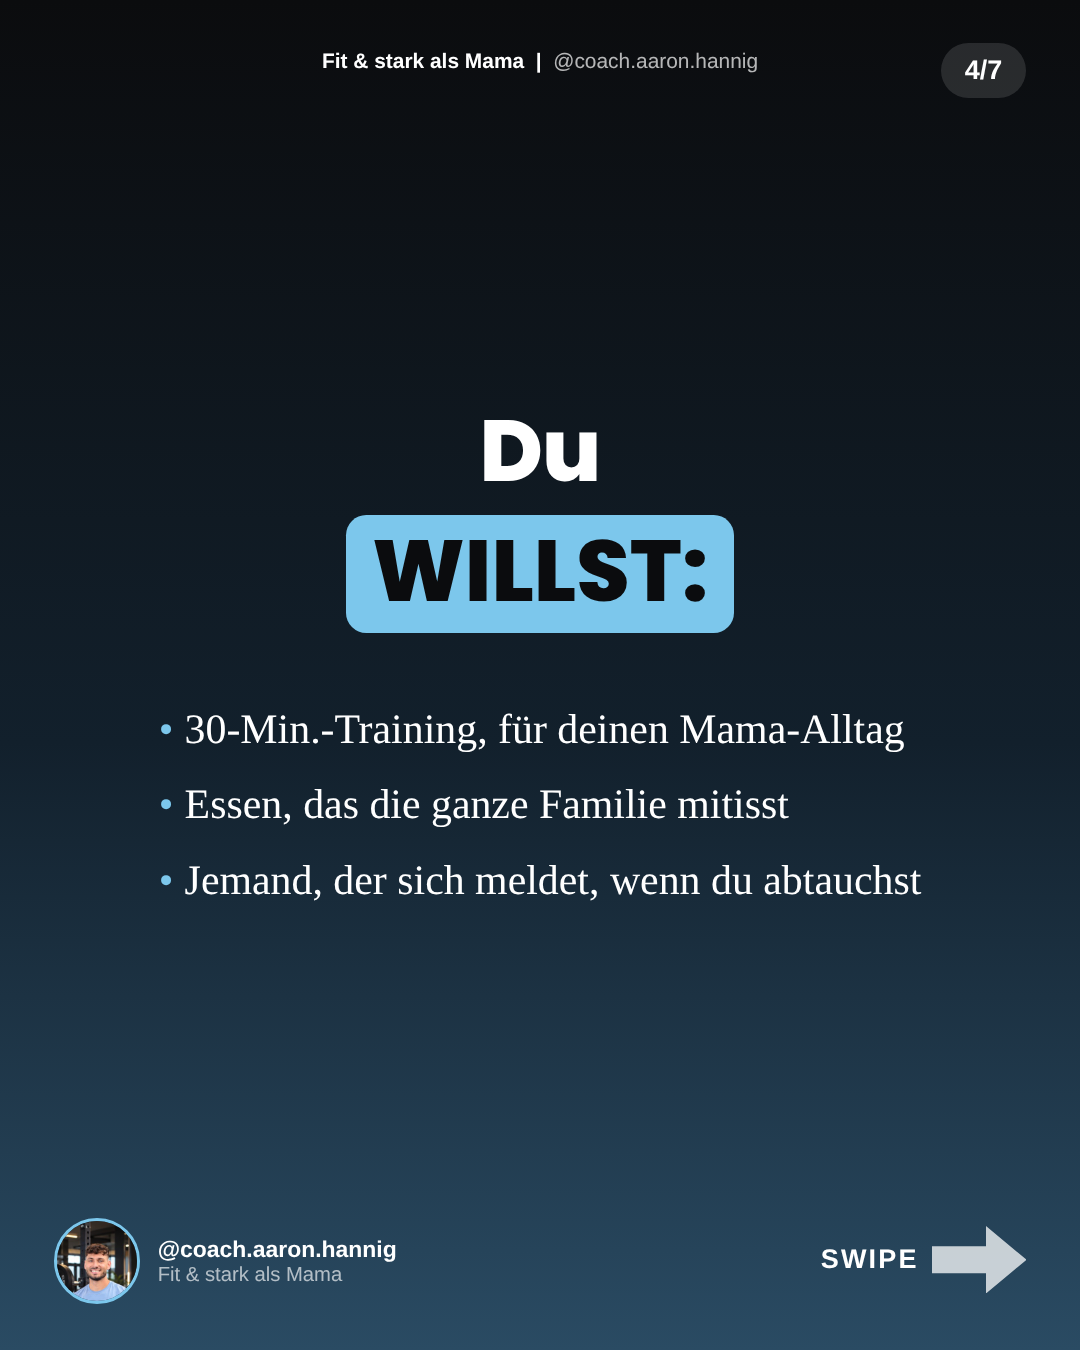
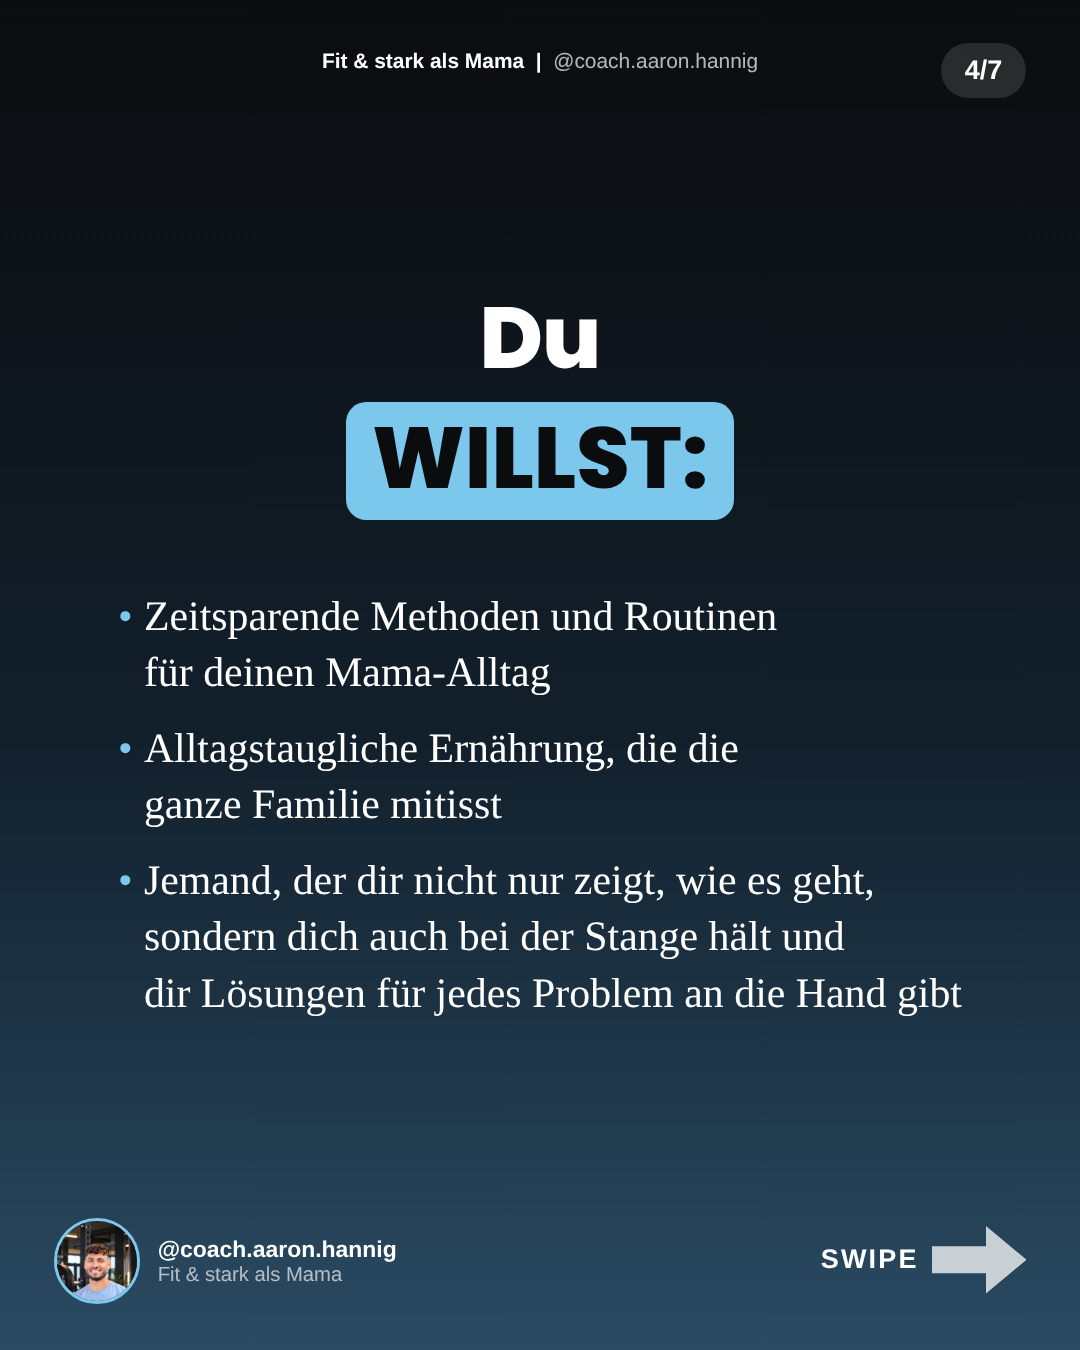
Mamas-Post Slide 4: Routinen, Familienessen, Begleitung statt 30-Min-Training
Claude-Session: https://claude.ai/code/session_017uA92rT21Qw1uhBjvPei5d

Changed region(s): [[0.1222, 0.2178, 0.8861, 0.7467]]

diff --git a/posts/spezial/mama-suche/bau.py b/posts/spezial/mama-suche/bau.py
@@ -36,9 +36,9 @@ SLIDES = [
                   "Verzicht bei jedem Familienessen",
                   "Pläne, die nur mit viel Freizeit klappen"])]),
     ("p", [("h", "Du"), ("b", "WILLST:"),
-           ("l", ["30-Min.-Training, für deinen Mama-Alltag",
-                  "Essen, das die ganze Familie mitisst",
-                  "Jemand, der sich meldet, wenn du abtauchst"])]),
+           ("l", ["Zeitsparende Methoden und Routinen<br>für deinen Mama-Alltag",
+                  "Alltagstaugliche Ernährung, die die<br>ganze Familie mitisst",
+                  "Jemand, der dir nicht nur zeigt, wie es geht,<br>sondern dich auch bei der Stange hält und<br>dir Lösungen für jedes Problem an die Hand gibt"])]),
     ("p", [("h", "Ich coache"), ("b", "jeden Tag."),
            ("t", "Hauptberuflich. Viele berufstätige Mütter<br>haben mit meiner Hilfe ihr Ziel erreicht,<br>"
                  "teils trotz 50 Stunden Arbeit,<br>Haushalt und Kinderbetreuung.")]),
